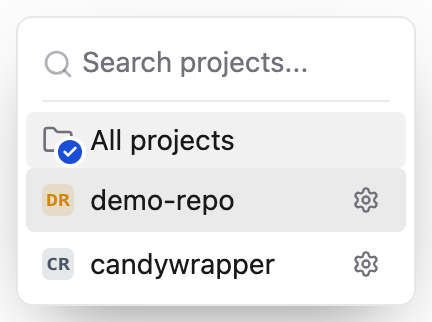
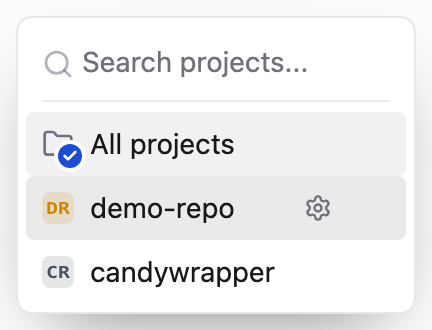
test(sidebar): recapture sidebar-search scope.all at the 4928 row layout
The scope popup's rows now end in `ProjectRowActions` with the settings
button and the pin column's `size-6` stand-in, and the label no longer
grows (Sidebar.tsx:3140-3190, ProjectComboboxRow.tsx:3-18 at 4928,
#29639, #29704). The spec follows that markup and only scope.all's four
images were recaptured; the other sidebar-search cases came out byte for
byte the same, so they are current. scope.all scores 2.70% dark and 2.17%
light under the existing 6% ceiling, with no change to CandyWrapper.

diff --git a/scripts/gen-sidebar-search-spec.py b/scripts/gen-sidebar-search-spec.py
@@ -93,17 +93,26 @@ GHOST_MUTED_ICON_XS = ("[--control-icon-color:currentColor] [&_svg]:-mx-0.5 rela
                        "size-7 sm:size-6 not-in-data-[slot=input-group]:[&_svg:not([class*='size-'])]:size-4 sm:not-in-data-[slot=input-group]:[&_svg:not([class*='size-'])]:size-3.5 ml-auto")
 INPUT = "h-7.5 w-full min-w-0 rounded-[inherit] px-[calc(--spacing(2.5)-1px)] leading-7.5 outline-none placeholder:text-placeholder sm:h-6.5 sm:leading-6.5 [transition:background-color_5000000s_ease-in-out_0s]"
 
+# A scope row at 4928 (Sidebar.tsx:3120-3190, ProjectComboboxRow.tsx, #29639, #29704): the favicon, the label, then
+# `ProjectRowActions` with the settings button, visible on the highlighted row, and the pin column. These cases are a
+# server without `projectOrganization`, so the pin column is its `size-6` stand-in; "All projects" ends in one too.
 def scope_item(label, project=None, selected=False, highlighted=False):
     attrs = (' data-selected=""' if selected else "") + (' data-highlighted=""' if highlighted else "")
     icon = favicon(project, "size-4 shrink-0") if project else svg(FOLDER, "size-4 shrink-0")
     if selected:
         icon = ('<span class="relative flex shrink-0">' + icon + '<span class="pointer-events-none absolute -right-1 -bottom-1 grid size-3 place-items-center rounded-full bg-primary ring-2 ring-popover">'
                 + svg('<path d="M20 6 9 17l-5-5"></path>', 'size-2 text-primary-foreground').replace('stroke-width="2"', 'stroke-width="4"') + '</span></span>')
-    settings = (f'<button type="button" tabindex="-1" aria-hidden="true" class="{GHOST_MUTED_ICON_XS}">{svg(SETTINGS, "size-3.5")}</button>'
-                if project else "")
+    if project:
+        button = GHOST_MUTED_ICON_XS.removesuffix(" ml-auto")
+        actions = ('<span class="ml-auto flex shrink-0 items-center pointer-coarse:gap-1">'
+                   '<span class="flex pointer-fine:invisible pointer-fine:in-data-highlighted:visible">'
+                   f'<button type="button" tabindex="-1" aria-hidden="true" class="{button}">{svg(SETTINGS, "size-3.5")}</button></span>'
+                   '<span class="size-7 sm:size-6"></span></span>')
+    else:
+        actions = '<span class="ml-auto size-7 shrink-0 sm:size-6"></span>'
     return (f'<div role="option" data-slot="combobox-item" class="{ITEM}"{attrs}>'
             '<div class="flex min-w-0 flex-1 items-center gap-2 [&_svg:not([class*=\'text-\'])]:text-muted-foreground" data-slot="combobox-item-content">'
-            f'{icon}<span class="min-w-0 flex-1 truncate text-sm">{label}</span>{settings}</div></div>')
+            f'{icon}<span class="min-w-0 truncate text-sm">{label}</span>{actions}</div></div>')
 
 def scope_popup(query, items):
     search = ('<div class="min-w-0 shrink-0 px-3 pt-2.5"><div class="relative -translate-y-px border-b border-border/70 pb-1.5 transition-colors focus-within:border-ring">'
